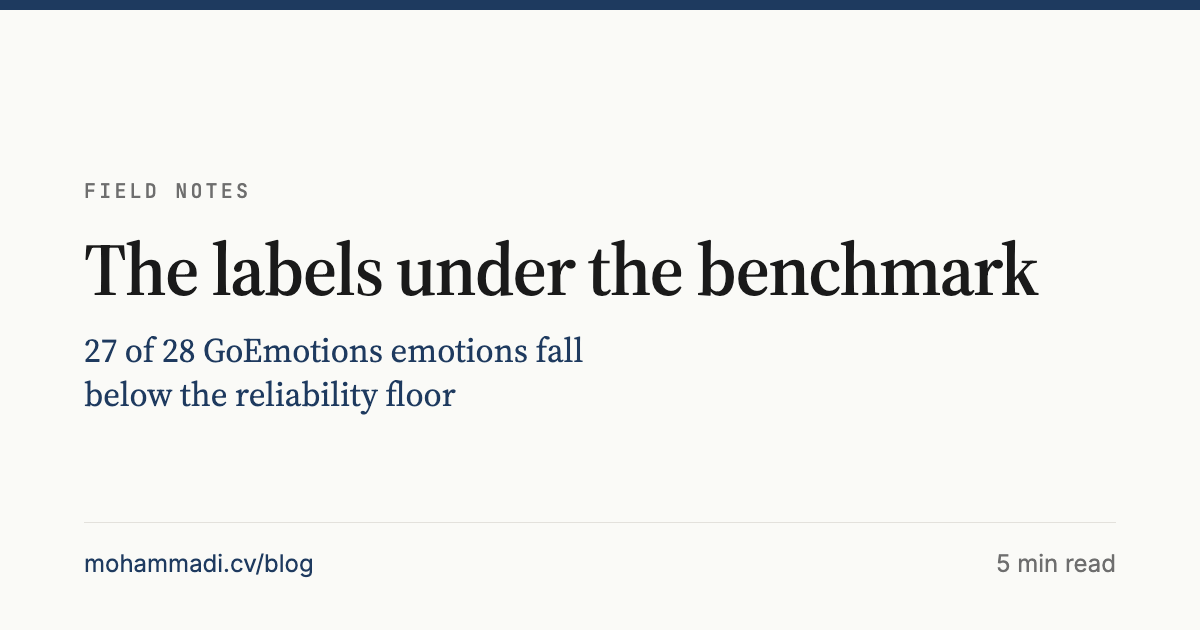
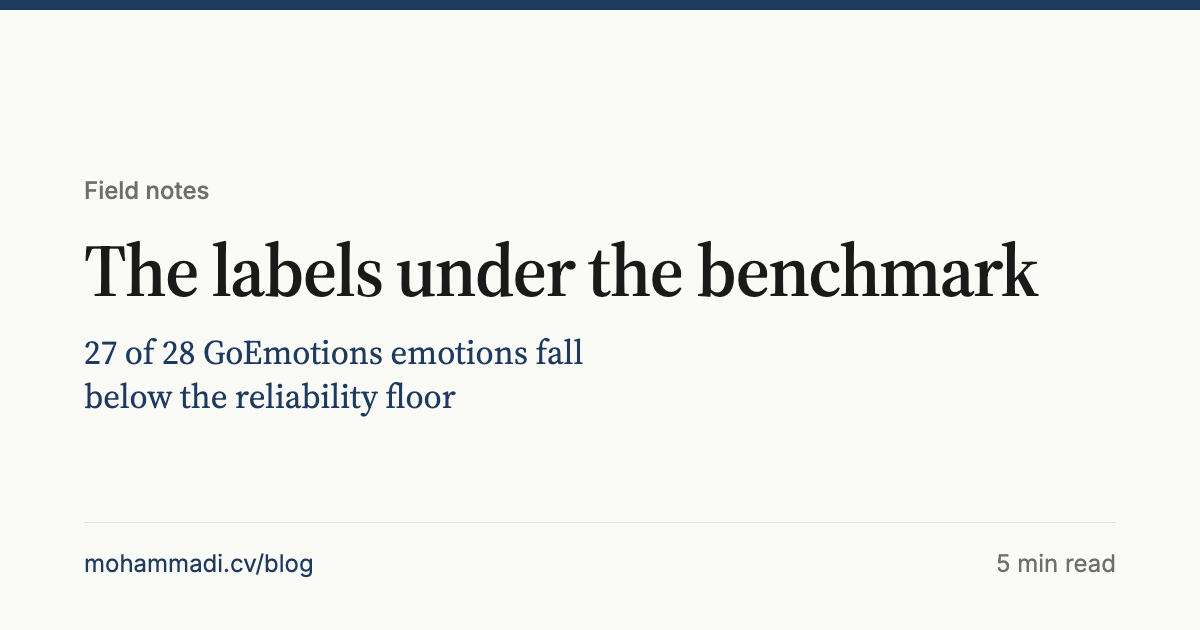
Redraw the share cards with a plain label and the current Experience line
The small label on every card is now plain text instead of spaced
monospace capitals, matching the site. The Experience card follows
the page: "Since 2019, from data scientist to Senior AI & Data
Science Expert".

diff --git a/scripts/make_cards.py b/scripts/make_cards.py
@@ -101,7 +101,7 @@ CARDS = [
          foot_left="mohammadi.cv/projects", foot_right="Papers · grants · code"),
     dict(name="experience-card", out="assets/img", kicker="Hadi Mohammadi",
          title="Experience",
-         subtitle="Five years from data scientist to Senior AI & Data Science Expert",
+         subtitle="Since 2019, from data scientist to Senior AI & Data Science Expert",
          foot_left="mohammadi.cv/experience", foot_right="Production ML and LLM systems"),
     dict(name="teaching-card", out="assets/img", kicker="Hadi Mohammadi",
          title="Teaching",
@@ -135,7 +135,7 @@ TEMPLATE = """<!DOCTYPE html>
 <meta charset="utf-8">
 <link rel="preconnect" href="https://fonts.googleapis.com">
 <link rel="preconnect" href="https://fonts.gstatic.com" crossorigin>
-<link href="https://fonts.googleapis.com/css2?family=Source+Serif+4:ital,opsz,wght@0,8..60,400;0,8..60,600;1,8..60,400&family=Inter:wght@400;500&family=JetBrains+Mono:wght@500&display=swap" rel="stylesheet">
+<link href="https://fonts.googleapis.com/css2?family=Source+Serif+4:ital,opsz,wght@0,8..60,400;0,8..60,600;1,8..60,400&family=Inter:wght@400;500&display=swap" rel="stylesheet">
 <style>
   * {{ margin: 0; padding: 0; box-sizing: border-box; }}
   html, body {{ width: 1200px; height: 630px; }}
@@ -149,9 +149,7 @@ TEMPLATE = """<!DOCTYPE html>
     flex-direction: column;
   }}
   .kicker {{
-    font-family: "JetBrains Mono", monospace;
-    font-size: 20px; font-weight: 500;
-    letter-spacing: 0.16em; text-transform: uppercase;
+    font-size: 24px; font-weight: 500;
     color: #6e6e6e;
   }}
   h1 {{
